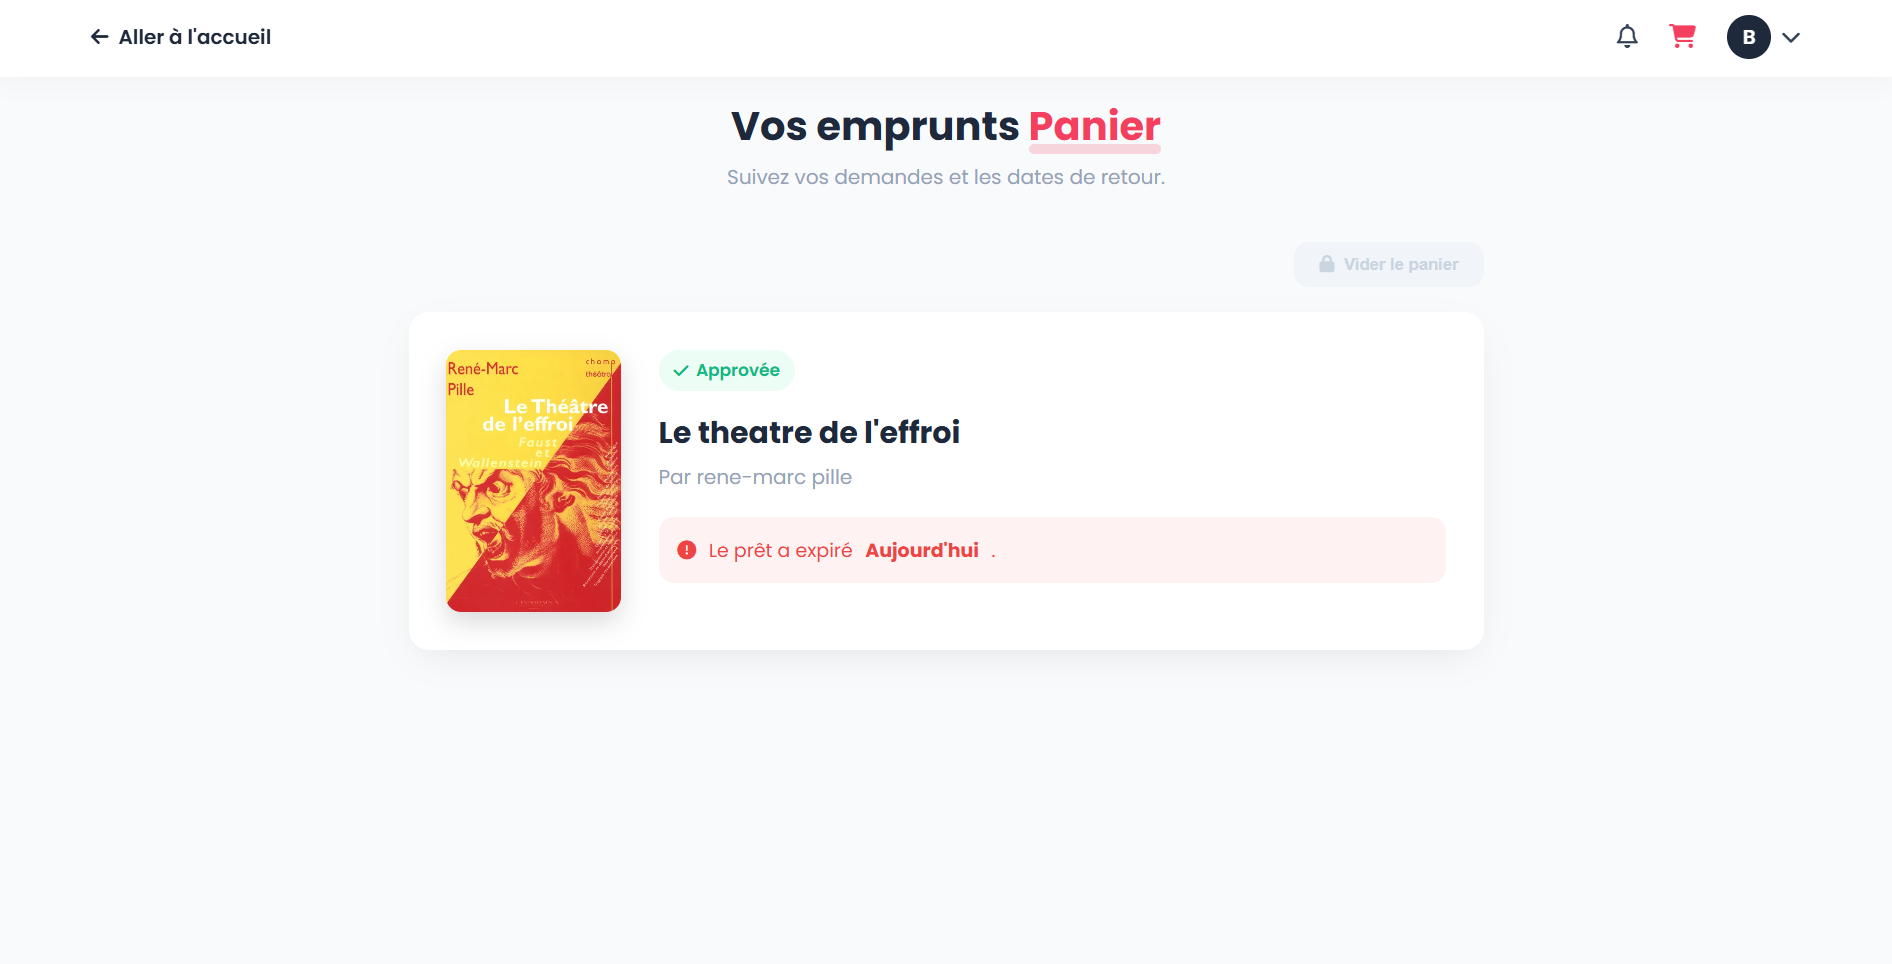
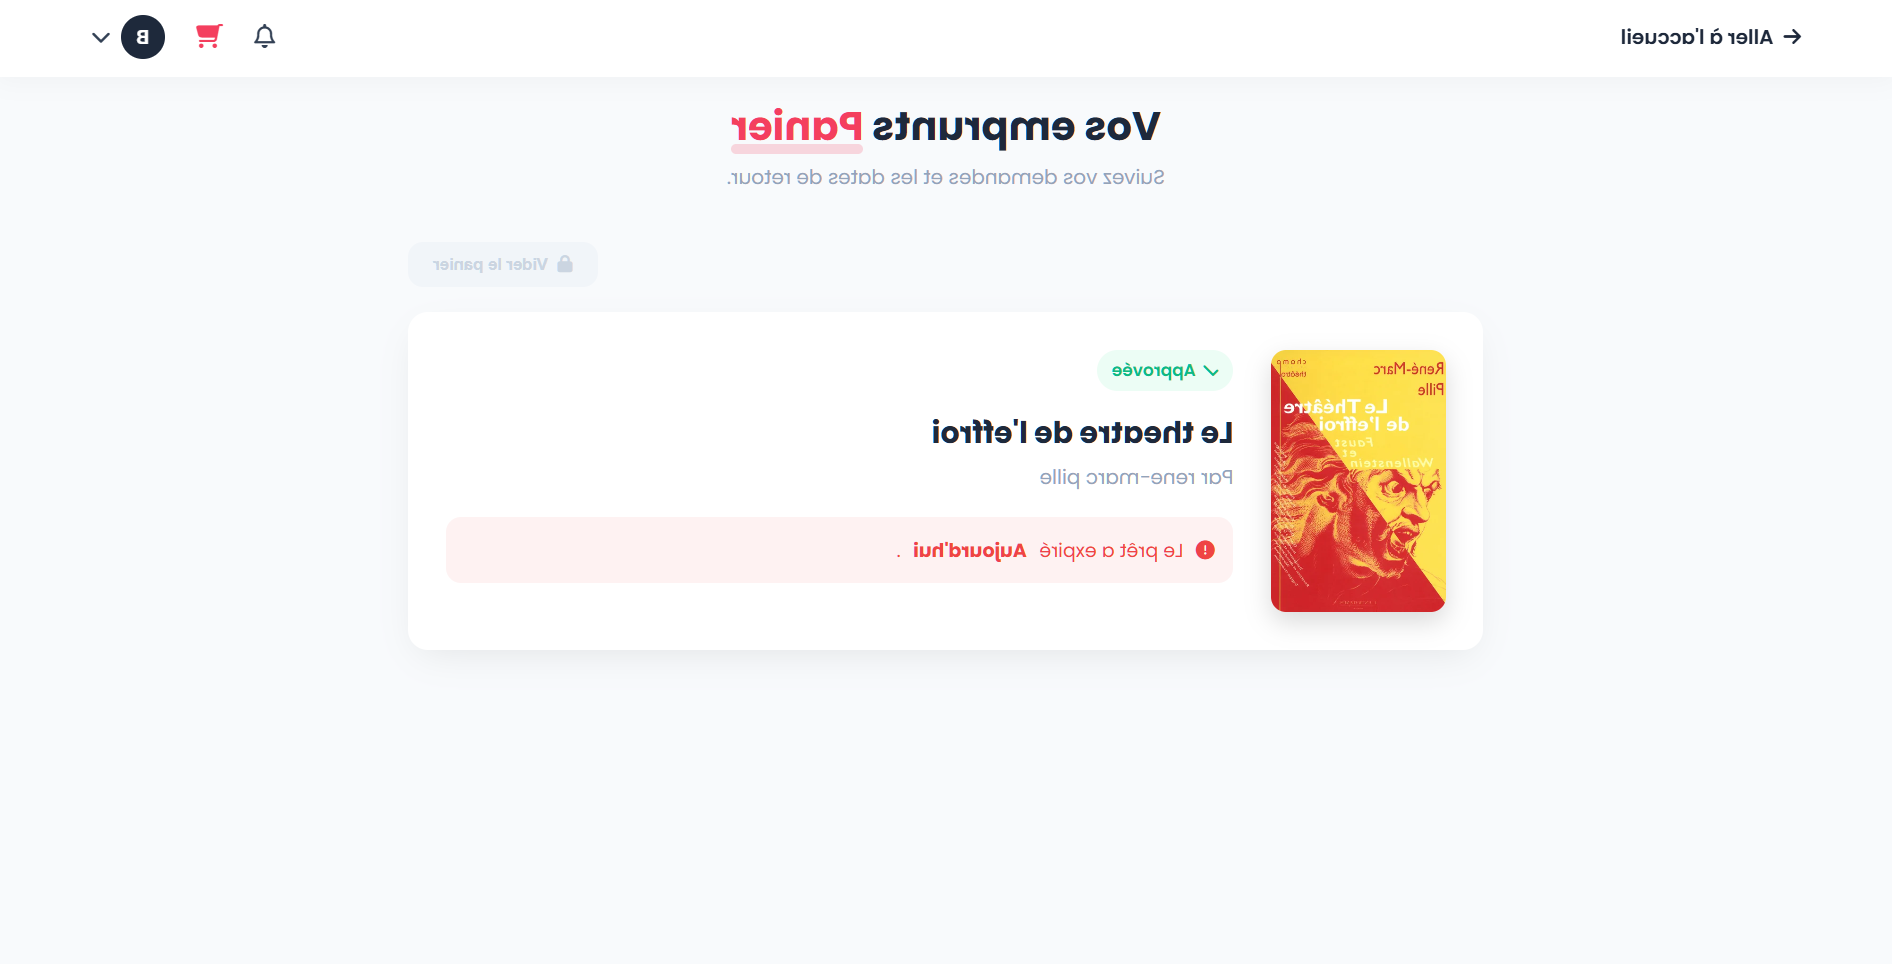
improved images quality

diff --git a/src/components/Project.tsx b/src/components/Project.tsx
@@ -8,98 +8,139 @@ import { ProjectProps } from "../types/project.type";
 import { SkillsCardProps } from "../types/skillscard.type";
 import SkillsCard from "./SkillsCard";
 
-const Project: React.FC<ProjectProps> = ({ title, color, githubUrl, url, imgUrl, description, skills, type }) => {
+const Project: React.FC<ProjectProps> = ({ title, color, githubUrl, url, imgUrl, description, skills }) => {
     const projectRef = useRef<HTMLDivElement>(null);
+    const cubeRef = useRef<HTMLDivElement>(null);
     const firstDescriptionRef = useRef<HTMLDivElement>(null);
+    
     const [titleProgress, setTitleProgress] = useState<number>(0);
+    const [cubeRotation, setCubeRotation] = useState<number>(0);
 
     useEffect(() => {
+        if (!cubeRef.current) return;
+        
+        let isVisible = false;
         let ticking = false;
 
+        const observer = new IntersectionObserver((entries) => {
+            entries.forEach(entry => {
+                isVisible = entry.isIntersecting;
+            });
+        }); 
+
         const handleScroll = () => {
-            if (!ticking && firstDescriptionRef.current) {
+            if (!ticking) {
                 ticking = true;
                 requestAnimationFrame(() => {
-                    const firstDesc = firstDescriptionRef.current!;
-                    const descRect = firstDesc.getBoundingClientRect();
+                    if (firstDescriptionRef.current) {
+                        const firstDesc = firstDescriptionRef.current;
+                        const descRect = firstDesc.getBoundingClientRect();
+                        const titleStickyPosition = 160;
+                        const triggerDistance = 400;
+                        const distanceFromTitle = descRect.top - titleStickyPosition;
 
-                    const titleStickyPosition = 160;
-                    const triggerDistance = 400; 
-                    const distanceFromTitle = descRect.top - titleStickyPosition;
+                        let tProgress = 0.5 - (distanceFromTitle / triggerDistance);
+                        setTitleProgress(Math.max(0, Math.min(1, tProgress)));
+                    }
 
-                    let progress = 0.5 - (distanceFromTitle / triggerDistance);
-                    progress = Math.max(0, Math.min(1, progress));
+                    if (isVisible && projectRef.current) {
+                        const rect = projectRef.current.getBoundingClientRect();
+                        const windowHeight = window.innerHeight;
 
-                    setTitleProgress(progress);
+                        const startPoint = windowHeight; 
+                        const currentPoint = rect.top;
+
+                        const relativeScroll = startPoint - currentPoint;
+                        
+                        const rotation = relativeScroll * 0.15; 
+                        
+                        setCubeRotation(rotation);
+                    }
+
                     ticking = false;
                 });
             }
         };
 
-        window.addEventListener('scroll', handleScroll);
+        observer.observe(cubeRef.current);
+        window.addEventListener('scroll', handleScroll, { passive: true });
+        
+        // Initialisation immédiate
         handleScroll();
 
-        return () => window.removeEventListener('scroll', handleScroll);
+        return () => {
+            observer.disconnect();
+            window.removeEventListener('scroll', handleScroll);
+        };
     }, []);
 
     return (
         <div className="project" ref={projectRef}>
             <div className="cube-container">
-                <div className="cube" style={{ transform: `rotateY(${20 + (titleProgress * 90)}deg)` }}>
+                <div 
+                    className="cube" 
+                    ref={cubeRef} 
+                    style={{ 
+                        transform: `rotateY(${10+cubeRotation}deg)` 
+                    }}
+                >
                     <div className="side front" style={{backgroundImage: `url(${imgUrl[0]})`}}></div>
                     <div className="side back" style={{backgroundImage: `url(${imgUrl[1]})`}}></div>
-                    <div className="side left"></div>
                     <div className="side right" style={{backgroundImage: `url(${imgUrl[2]})`}}></div>
+                    <div className="side left" style={{backgroundImage: `url(${imgUrl[3]})`}}></div>
                     <div className="side top"></div>
                     <div className="side bottom"></div>
                 </div>
             </div>
             
-            <div className="projectDescription" style={{backgroundImage: 'url('+imgUrl[0]+')'}}>
+            <div className="projectDescription" style={{backgroundImage: `linear-gradient(rgba(0,0,0,0.7), rgba(0,0,0,0.7)), url(${imgUrl[0]})`}}>
                 <div 
                     className="p-title" 
                     style={{
-                        transform: `scale(${1 - (titleProgress * 0.5)})`,
-                        opacity: 1 - (titleProgress * 0.8),
+                        transform: `scale(${1 - (titleProgress * 0.3)})`, // Scale réduit pour l'UX
+                        opacity: Math.max(0.4, 1 - (titleProgress * 0.8)), // Opacité min de 0.4 pour rester cliquable
                     }}>
 
                     <h3 style={{color: color}}>{title}</h3>
+                    
                     <div className="p-btns-container" style={{display: 'flex', gap: '10px'}}>
-                        {url !== '' && 
-                        <Button 
-                            type='default' 
-                            valueText='Visiter' 
-                            onClick={() => {
-                                if (url) window.open(url, '_blank');
-                            }} 
-                            style={{backgroundColor: color, borderColor: color, color: 'white'}}
-                            valueIcon={fas.faUpRightFromSquare} title={url}/>}
-                        {githubUrl !== '' && 
-                            <Button 
-                                type='light' 
-                                valueText='Github' 
-                                onClick={() => {
-                                    if (githubUrl) window.open(githubUrl, '_blank');
-                                }}
-                                valueIcon={faGithub} title={githubUrl}/>}                        
+                        {url !== '' && (
+                            <a href={url} target="_blank" rel="noopener noreferrer" style={{textDecoration: 'none'}}>
+                                <Button 
+                                    type='default' 
+                                    valueText='Visiter' 
+                                    style={{backgroundColor: color, borderColor: color, color: 'white'}}
+                                    valueIcon={fas.faUpRightFromSquare} 
+                                    title={`Visiter ${title}`}
+                                />
+                            </a>
+                        )}
+                        {githubUrl !== '' && (
+                            <a href={githubUrl} target="_blank" rel="noopener noreferrer" style={{textDecoration: 'none'}}>
+                                <Button 
+                                    type='light' 
+                                    valueText='Github' 
+                                    valueIcon={faGithub} 
+                                    title="Voir le code source"
+                                />
+                            </a>
+                        )}                        
                     </div>
                 </div>
 
-                <div className="projectTextDescription" ref={firstDescriptionRef} style={{height: 'auto'}}>
+                <div className="projectTextDescription" ref={firstDescriptionRef}>
                     <h4>Description</h4>
                     <div className="description">
                         {description}
                     </div>
                 </div>
 
-                <div className="projectTextDescription" style={{height: 'auto'}}>
+                <div className="projectTextDescription">
                     <h4>Compétences</h4>
                     <div className="stacks">
-                        {
-                            skills.map((el: SkillsCardProps, i: number) => {
-                                return <SkillsCard key={el.text+i} icon={el.icon} text={el.text}/>
-                            })
-                        }
+                        {skills.map((el: SkillsCardProps, i: number) => (
+                            <SkillsCard key={`${el.text}-${i}`} icon={el.icon} text={el.text}/>
+                        ))}
                     </div>
                 </div>
             </div>

diff --git a/src/assets/style/project.css b/src/assets/style/project.css
@@ -13,13 +13,12 @@
     position: relative;
     z-index: 30;
     flex-wrap: wrap;
-    background-image: url(../images/miamFront.png);
+    background-image: url(../images/miamFront.webp);
     background-attachment: fixed;
     background-repeat: no-repeat;
     background-size: cover;
     border-radius: 20px;
     transition: all 0.2s;
-    background-position: top left;
     background-color: #ffffffd2;
     background-blend-mode: overlay;
 }
@@ -47,7 +46,7 @@
     padding: 40px;
     box-shadow: 0px 0px 6px 6px rgba(0, 0, 0, 0.041);
     min-width: 400px;
-    width: 95%;
+    width: 92%;
     border-radius: 4px;
     height: auto;
     font-size: 1.2em;
@@ -83,11 +82,10 @@
 
 .cube {
     position: relative;
-    width: 400px;
-    height: 400px;
+    width: 350px;
+    height: 350px;
     transform-style: preserve-3d;
     will-change: transform;
-    transform: rotateX(20deg) rotateY(30deg);
 }
 .cube:hover{
     transform: rotateX(10deg) rotateY(45deg);
@@ -96,25 +94,23 @@
     position: absolute;
     width: 100%;
     height: 100%;
-    /* Un fond très léger et flouté pour le côté premium */
-    /* background: rgba(255, 255, 255, 0.4); */
     border: 1px solid rgba(0, 0, 0, 0.1); 
     display: flex;
     align-items: center;
     justify-content: center;
     background-size: cover;
+    background-position: left top;
     background-repeat: no-repeat;
     font-weight: bold;
-    color: #2A5B69; /* Votre bleu rassurant */
+    color: #2A5B69;
 }
 
-/* Exemple de faces harmonisées */
-.front  { transform: translateZ(200px); }
-.back   { transform: translateZ(-200px); }
-.left   { transform: rotateY(90deg) translateZ(200px); }
-.right  { transform: rotateY(-90deg) translateZ(200px); }
-.top    { transform: rotateX(90deg) translateZ(200px); }
-.bottom { transform: rotateX(-90deg) translateZ(200px); }
+.front  { transform: translateZ(175px); }
+.back   { transform: translateZ(-175px); }
+.left   { transform: rotateY(90deg) translateZ(175px); }
+.right  { transform: rotateY(-90deg) translateZ(175px); }
+.top    { transform: rotateX(90deg) translateZ(175px); }
+.bottom { transform: rotateX(-90deg) translateZ(175px); }
 
 @media screen and (max-width: 1015px){
     .cube-container {
@@ -130,7 +126,6 @@
         height: 400px;
     }
     .projectTextDescription {
-        /* width: 300px; */
         padding: 20px;
         min-width: 300px;
     }
@@ -143,7 +138,6 @@
         width: 250px;
         height: 250px;
     }
-    /* Exemple de faces harmonisées */
     .front  { transform: translateZ(125px); }
     .back   { transform: translateZ(-125px);}
     .left   { transform: rotateY(90deg) translateZ(125px); }

diff --git a/src/data/projects.ts b/src/data/projects.ts
@@ -8,9 +8,10 @@ export const projects:ProjectProps[] = [
         color: '#f5700a',
         type: 'web',
         imgUrl: [
-            require('../assets/images/miamFront.png'), 
-            require('../assets/images/miamRight.png'), 
-            require('../assets/images/miamBack.png'), 
+            require('../assets/images/miamFront.webp'), 
+            require('../assets/images/miamRight.webp'), 
+            require('../assets/images/miamBack.webp'), 
+            require('../assets/images/miamLeft.webp'), 
         ],
         description: "Miam est une plateforme immersive dédiée à la gastronomie camerounaise. L'application permet de découvrir et de partager des recettes traditionnelles à travers une interface fluide et moderne, connectée à une API publique permettant d'exporter les données culinaires vers d'autres services",
         url: 'https://miamcmr.netlify.app',
@@ -46,9 +47,10 @@ export const projects:ProjectProps[] = [
         color: '#e82a33',
         type: 'web',
         imgUrl: [
-            require('../assets/images/thayipizzaFront.png'), 
-            require('../assets/images/thayipizzaRight.png'), 
-            require('../assets/images/thayipizzaBack.png'), 
+            require('../assets/images/thayipizzaFront.webp'), 
+            require('../assets/images/thayipizzaRight.webp'), 
+            require('../assets/images/thayipizzaBack.webp'), 
+            require('../assets/images/thayipizzaLeft.webp'), 
         ],
         description: "ThayiPizza est une application web de commande en ligne conçue pour simplifier l'interaction entre une pizzeria et ses clients. Le projet met l'accent sur une expérience utilisateur (UX) fluide, permettant de parcourir le menu, de personnaliser sa commande et de faciliter la prise de contact pour la livraison" ,
         url: 'https://thayipizza.netlify.app',
@@ -91,7 +93,8 @@ export const projects:ProjectProps[] = [
         imgUrl: [
             require('../assets/images/iucbibliFront.png'), 
             require('../assets/images/iucbibliBack.png'), 
-            require('../assets/images/iucbibliRight.png'), 
+            require('../assets/images/iucbibliRight.webp'), 
+            require('../assets/images/iucbibliLeft.png'), 
         ],
         description: "Iucbibli est un système de gestion de bibliothèque interactif conçu pour automatiser le suivi des ouvrages et des emprunts. Le projet se concentre sur l'intégrité des données et la simplicité d'utilisation, offrant une interface d'administration robuste pour la gestion d'un catalogue en temps réel.",
         url: 'https://sevux.alwaysdata.net',

diff --git a/src/pages/Home.tsx b/src/pages/Home.tsx
@@ -1,15 +1,10 @@
-import { useContext, useState } from 'react';
+import { useState } from 'react';
 //@ts-ignore
 import '../assets/style/home.css';
 import Navbar from '../components/Navbar';
-import Underlined from '../components/Underlined';
 import { Skills } from '../data/skills';
 import { skillsResumeItems } from '../data/skillsresumeItems';
 import { SkillsCardProps } from '../types/skillscard.type';
-import TabNavigation from '../components/TabNavigation';
-import { projects } from '../data/projects';
-import { ProjectProps } from '../types/project.type';
-import Project from '../components/Project';
 import Hero from '../components/Hero';
 import SkillResumeContainer from '../components/SkillResumeContainer';
 import SkillsContainer from '../components/SkillsContainer';

diff --git a/src/hooks/useSection.tsx b/src/hooks/useSection.tsx
@@ -1,9 +1,8 @@
 import { RefObject, useContext, useEffect } from "react";
 import { SectionContext } from "../context/SectionContext";
 
-// Hook typé avec useSectionContext
 export const useSection = (ref: RefObject<HTMLElement | null>, section: string) => {
-    const context = useContext(SectionContext); // Hook custom type-safe
+    const context = useContext(SectionContext);
 
     useEffect(() => {
         if (!ref.current) return;
@@ -24,5 +23,5 @@ export const useSection = (ref: RefObject<HTMLElement | null>, section: string) 
 
         observer.observe(projectsElem);
         return () => observer.disconnect();
-    }, [ref, section, context.setActiveSection]); // Dépendance précise
+    }, [ref, section, context.setActiveSection, context]);
 };

diff --git a/src/components/Hero.tsx b/src/components/Hero.tsx
@@ -127,7 +127,7 @@ const Hero: React.FC<{isFormVisible: boolean; setIsFormVisible: (v: boolean) => 
             </div>
             <div className={`heroImg ${showImage ? 'image-visible' : 'image-hidden'}`}>
                 <img src={require('../assets/images/square.png')} alt="squares" style={{height: '80px', width: '100px'}} className='s'/>
-                <img src={require('../assets/images/pp.jpeg')} alt="brel NOSSE" className='profil'/>
+                <img src={require('../assets/images/pp.webp')} alt="brel NOSSE" className='profil'/>
                 <img src={require('../assets/images/star.png')} alt="star" style={{height: '120px', width: '120px'}} className='r'/>
             </div>
         </section>

diff --git a/src/components/ProjetContainer.tsx b/src/components/ProjetContainer.tsx
@@ -11,11 +11,11 @@ import { useSection } from "../hooks/useSection";
 const ProjectContainer: React.FC = () => {
     const [activeTab, setActiveTab] = useState<string>('tout');
     const projectsRef = useRef<HTMLElement>(null);
-    useSection(projectsRef, 'projets');
+    useSection(projectsRef, 'projects');
     
     return (
         <section className="projects" ref={projectsRef}>
-            <Underlined text='Projets'/>
+            <Underlined text='projects'/>
             <div className="projects_container">
                 <div className="projects-container_header">
                     <TabNavigation activeTab={activeTab} setActiveTab={setActiveTab}/>

diff --git a/src/assets/style/about.css b/src/assets/style/about.css
@@ -50,7 +50,7 @@
     margin-right: -125px;
     min-width: var(--width);
     border-radius: 32px;
-    background-image: url(../images/pp.jpeg);
+    background-image: url(../images/pp.webp);
     background-size: cover;
     border: 8px solid white;
 }

diff --git a/src/data/menuItems.ts b/src/data/menuItems.ts
@@ -29,7 +29,7 @@ export const MenuItems:MenuItemType[] = [
     },
     {
         icon: fas.faCogs,
-        displayText: 'Projets',
+        displayText: 'projects',
         sectionId: 'projects'
     }
 ];
